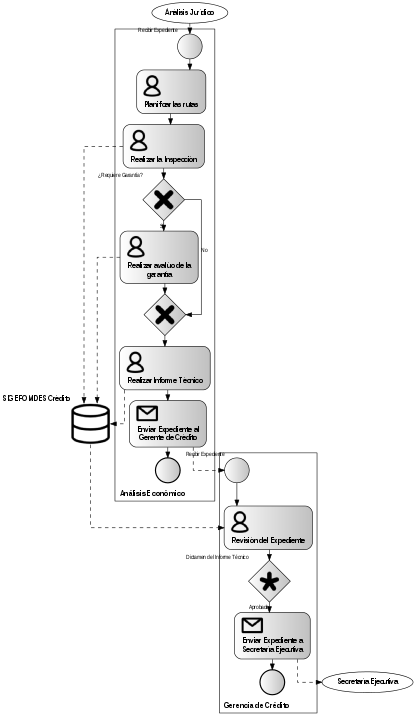
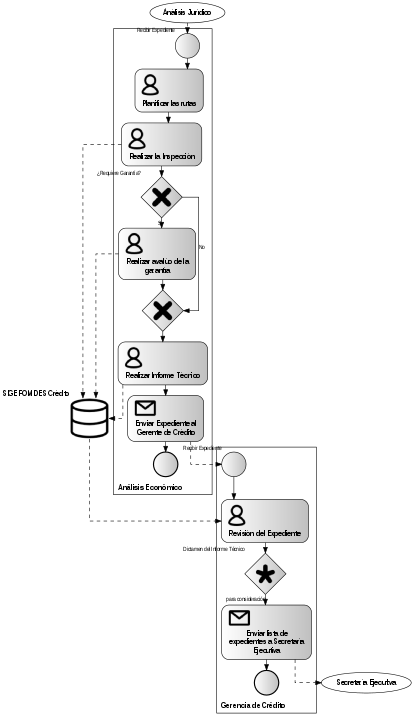
Edición de los procesos 2 y 3

Changed region(s): [[0.0, 0.0, 0.7845, 1.0], [0.8136, 0.9167, 0.9588, 0.9778], [0.2034, 0.7028, 0.2324, 0.7333]]

diff --git a/doc/informe1/fomdes_proc3.py b/doc/informe1/fomdes_proc3.py
@@ -1,0 +1,77 @@
+#!/usr/bin/env python
+#  -*- coding: utf-8 -*-
+
+"""
+BPMN diagram for FOMDES process 1
+"""
+
+from __future__ import absolute_import
+from __future__ import division
+from __future__ import print_function
+from __future__ import unicode_literals
+
+from bpmn_pgv import *
+import pygraphviz as pgv
+
+__author__ = 'mapologo'
+
+PROCESS_LABEL = "Aprobación de Créditos"
+# A graph for FOMDES processes
+F = pgv.AGraph(strict=False, directed=True)
+
+F.graph_attr.update(label="", rankdir="TB", splines="ortho", labelloc="b",
+                    size="8, 7.5", forcelabels="true", ranksep="0.25", fontname="Liberation Sans Narrow Condensed")
+F.node_attr.update(fontname="Liberation Sans Narrow Condensed")
+F.edge_attr.update(fontname="Liberation Sans Narrow Condensed", fontsize="10")
+
+se_cluster = {"se0": ("Recibir Lista de Expedientes", "start"),
+              "se1": ("Verificar Lista de Expedientes", "human"),
+              "se2": ("Solicitar Certificación Presupuestaria y Financiera", "message"),
+              "se3": ("Convocar el Consejo Directivo", "message"),
+              "se4": ("Elaborar el Acta de Créditos Aprobados", "human"),
+              "se5": ("Elaborar el Documento de Credito (Documento de Empresa)", "human"),
+              "se6": ("", "end")}
+
+se_edges = {"se0": {"se1": {}},
+            "se1": {"se2": {}},
+            "se2": {"se3": {"style":"invis"}},
+            "se3": {"se4": {"style":"invis"}},
+            "se4": {"se5": {}},
+            "se5": {"se6": {}}}
+
+SE = add_cluster(F, "se", "Secretaría Ejecutiva", se_cluster, se_edges)
+
+p_cluster = {"p0": ("Verificar Lista de Expedientes", "human")}
+
+p_edges = {}
+
+P = add_cluster(F, "p", "Presidencia", p_cluster, p_edges)
+
+pr_cluster = {"pr0": ("Elaborar Certificación Presupuestaria y Financiera", "human"),
+              "pr1": ("Enviar Certificación a Secretaría Ejecutiva", "message")}
+
+pr_edges = {"pr0": {"pr1": {}}}
+
+PR = add_cluster(F, "pr", "Presupuesto/Administración", pr_cluster, pr_edges)
+
+cd_cluster = {"cd0": ("Revisar los expedientes", "human"),
+              "cd1": ("¿Se aprueba el crédito?", "complex")}
+
+cd_edges = {"cd0": {"cd1": {}}}
+
+CD = add_cluster(F, "cd", "Consejo Directivo", cd_cluster, cd_edges)
+
+# F.add_node("SIGEFOMDES Crédito", image="static/database.png", shape="plaintext", label="", xlabel="SIGEFOMDES Crédito")
+
+global_edges = {"Gerencia de Crédito":  {"se0": {"style": "dashed"}},
+                "p0": {"se1": {"style": "dashed"}},
+                "se2": {"pr0": {"style": "dashed"}},
+                "pr1": {"se3": {"style": "dashed"}},
+                "se3": {"cd0": {"style": "dashed"}},
+                "cd1": {"se4": {"style": "dashed"}},
+                "se5": {"Usuario": {"style": "dashed"}}}
+
+add_edges(F, global_edges)
+
+F.draw("proc3.png", prog='dot')
+F.write("proc3.dot")

diff --git a/doc/informe1/fomdes_proc22.py b/doc/informe1/fomdes_proc22.py
@@ -48,12 +48,12 @@ AE = add_cluster(F, "ae", "Análisis Económico", ae_cluster, ae_edges)
 gc_cluster = {"gc0": ("Recibir Expediente", "start"),
               "gc1": ("Revisión del Expediente", "human"),
               "gc2": ("Dictamen del Informe Técnico", "complex"),
-              "gc3": ("Enviar Expediente a Secretaría Ejecutiva", "message"),
+              "gc3": ("Enviar lista de expedientes a Secretaría Ejecutiva", "message"),
               "gc4": ("", "end")}
 
 gc_edges = {"gc0": {"gc1": {}},
             "gc1": {"gc2": {}},
-            "gc2": {"gc3": {"xlabel": "Aprobado"}},
+            "gc2": {"gc3": {"xlabel": "para consideración"}},
             "gc3": {"gc4": {}}}
 
 GC = add_cluster(F, "gc", "Gerencia de Crédito", gc_cluster, gc_edges)

diff --git a/doc/informe1/fomdes_proc21.py b/doc/informe1/fomdes_proc21.py
@@ -64,7 +64,8 @@ global_edges = {"u6":  {"ic4": {"style": "dashed"}},
                 "ic6": {"aj0": {"style": "dashed"}},
                 "ic5": {"SIGEFOMDES Crédito": {"style": "dashed"}},
                 "aj1": {"SIGEFOMDES Crédito": {"style": "dashed"}},
-                "aj3": {"ic7": {"style": "dashed"}, "Análisis Económico": {"style": "dashed"}}}
+                "aj3": {"ic7": {"style": "dashed"}, "Análisis Económico": {"style": "dashed"}},
+                fill("Estadística y Evaluación de Riesgos", TEXT_WIDTH): {"u4": {"style": "dashed"}}}
 
 add_edges(F, global_edges)
 

diff --git a/doc/informe1/procesos.rst b/doc/informe1/procesos.rst
@@ -84,6 +84,9 @@ créditos.
        * - Expediente
          - Realizar el informe técnico
          - Expediente con informe técnico (con memoria fotográfica)
+       * - Expediente
+         - Elaborar lista de expedientes para consideración del Consejo Directivo
+         - Lista de expedientes
 
     * **Flujograma**: Ver Figuras 3.2 y 3.3
 
@@ -95,77 +98,51 @@ créditos.
 **Aprobación de Créditos**
 ==========================
 
-    * **Descripción**: Abarca desde la recepción del listado de expedientes sugeridos para
+    * **Descripción**: Abarca desde la recepción del lista de expedientes sugeridos para
       aprobación de créditos hasta la elaboración del Documento de Crédito y constitución de la
-      empresa (de requerirse) para cada uno de los beneficiarios/-as.
+      empresa (de requerirse) para cada uno de los beneficiarios(as).
 
     * **Dependencia responsable**: Presidencia
 
-    * **Unidad(es) Ejecutora(s)**: Analistas de Crédito, Presupuesto, Secretaría Ejecutiva, Consejo Directivo, Presupuesto, Secretaría Ejecutiva
+    * **Unidad(es) Ejecutora(s)**: Secretaría Ejecutiva, Presupuesto, Consejo Directivo
 
     * **Tabla de Actividades**:
 
+    .. tabularcolumns:: |p{4cm}|p{7cm}|p{4cm}|
+
     .. list-table::
-       :widths: 40 40 40
+       :widths: 40 70 40
        :header-rows: 1
 
        * - Entrada
          - Actividades
          - Salida
+       * - Lista de expedientes
+         - Revisar lista de expedientes junto con presidencia
+         - Lista de expedientes priorizada
        * - Expediente
-         - Revisión de la propuesta para aprobar/rechazar
-         - Informe sobre perfil de la actividad, inversión y proyección económica
-       * - Expediente
-         - Revisión del expediente
+         - Elaborar certificación presupuestaria por sector
          - Certificación presupuestaria por sector
-       * - Propuesta sugerida para aprobar/rechazar
-         - Convoca al consejo directivo
-         - Lista de propuestas para aprobar/rechazar
-       * - Propuesta para aprobar/rechazar
-         - Revisión de expediente
-         - Acta de propuesta aprobada
-       * - Expediente
-         - Realiza control previo de los requisitos
-         - Certificación de disponibilidad de dinero para liquidación de crédito
-       * - Expediente aprobado
-         - Redacta documentos
-         - Entrega documento de crédito y documento de constitución de empresa al beneficiario
+       * - Lista de expediente para consejo directivo
+         - Convocar al consejo directivo
+         - Acta de créditos aprobados
+       * - Acta de créditos aprobados
+         - Elaborar el documento de crédito y de ser necesario el documento de la empresa
+         - Documento de crédito y documento de constitución de empresa
 
     * **Flujograma**:
 
-    .. graphviz::
-
-       digraph G05 { rankdir=LR; node [shape=box, style=rounded];
-
-        subgraph clusterA { labeljust=l; label="any-section@company.com";
-         AS [label="", shape=circle, width="0.3"];
-         AE [label="", shape=circle, width="0.3", style=bold];
-         A1 [label="A1: Daily\nReport"];
-         A2 [label="A2: Memo"];
-
-         AS -> A1;
-         A2 -> AE;
-         A1 -> A2 [style=invis];
-        }
-
-        subgraph clusterB { labeljust=l; label="section-leader@company.com";
-         B1 [label="B1: Review"];
-        }
-
-       A1 -> B1 [tailport=sw,headport=nw]; // *Specify positions of tail port and head port*
-       B1 -> A1 [arrowtail=odiamond, label="NG"];
-       B1 -> A2 [arrowtail=rcrowlvee];
-       }
+    .. graphviz:: proc3.dot
 
 **Liquidación de Créditos**
 ===========================
 
     * **Descripción**: Abarca desde la consignación de los documentos notariados por parte de los
-      beneficiarios/-as hasta la entrega del cheque respectivo.
+      beneficiarios(as) hasta la entrega del cheque respectivo.
 
     * **Dependencia responsable**: Administración y Finanzas
 
-    * **Unidad(es) Ejecutora(s)**: Secretaria Ejecutiva, Administración, Presidencia, Secretaría Ejecutiva
+    * **Unidad(es) Ejecutora(s)**: Secretaria Ejecutiva,Presupuesto, Administración, Presidencia, Secretaría Ejecutiva
 
     * **Tabla de Actividades**:
 
@@ -177,42 +154,27 @@ créditos.
          - Actividades
          - Salida
        * - Documento protocolizado del cŕedito
-         - Revisión del documento protocolizado
-         - Envia expediente a Administración
+         - Revisar el documento protocolizado
+         - Expediente con Documento de Crédito Protocolizado
        * - Expediente
-         - Ingreso de datos al sistema SIGEFOMDES-Administración-SISAC
-         - Cuentas por cobrar/tabla de amortización/orden de liquidación/cheque firmado
+         - Verificar documentación legal y elaborar certificación de disponibilidad para liquidación del crédito
+         - Expediente en regla
+       * - Expediente
+         - Ingreso de datos y creación de cuentas en el sistema SIGEFOMDES-Administración y SISAC
+         - Expediente con cuentas por cobrar y tabla de amortización
+       * - Expediente
+         - Imprimir y firmar orden de liquidación y cheque
+         - Cheque
        * - Cheque firmado por Administración
          - Firma del cheque
-         - Cheque firmado
-       * - Cheque firmado
-         - Convoca acto público con el Gobernador
-         - Entrega de cheque a beneficiario
+         - Cheque firmado por Presidencia
+       * - Cheque
+         - Entregar cheque a beneficiario
+         - Expediente con copia de orden de liquidación
 
     * **Flujograma**:
 
     .. graphviz::
-
-       digraph G05 { rankdir=LR; node [shape=box, style=rounded];
-
-        subgraph clusterA { labeljust=l; label="any-section@company.com";
-         AS [label="", shape=circle, width="0.3"];
-         AE [label="", shape=circle, width="0.3", style=bold];
-         A1 [label="A1: Daily\nReport"];
-         A2 [label="A2: Memo"];
-         AS -> A1;
-         A2 -> AE;
-         A1 -> A2 [style=invis];
-        }
-
-        subgraph clusterB { labeljust=l; label="section-leader@company.com";
-         B1 [label="B1: Review"];
-        }
-
-       A1 -> B1 [tailport=sw,headport=nw]; // *Specify positions of tail port and head port*
-       B1 -> A1 [arrowtail=odiamond, label="NG"];
-       B1 -> A2 [arrowtail=rcrowlvee];
-       }
 
 **Inspección de Inversiones**
 =============================
@@ -273,7 +235,7 @@ créditos.
 =========
 
     * **Descripción**: Incluye actividades de recepción de pagos y actualización de estados de
-      cuenta de beneficiarios/-as
+      cuenta de beneficiarios(as)
 
     * **Dependencia responsable**: Administración
 
@@ -322,7 +284,7 @@ créditos.
 ========================
 
     * **Descripción**: Comprende actividades relativas al trámite y gestión de recuperación de
-      pagos caídos por parte de beneficiarios/-as.
+      pagos caídos por parte de beneficiarios(as).
 
     * **Dependencia responsable**: Gerencia de Recuperaciones
 

diff --git a/doc/informe1/descripcion.rst b/doc/informe1/descripcion.rst
@@ -29,7 +29,7 @@ insumo para el levantamiento de procesos y tareas qe actualmente desempeña el F
 necesidades que, desde la perspectiva del usuario es necesario incluir.
 
 Pero adicionalmente, se incluyen también requerimientos funcionales del sistema TINJACA que, a buen
-seguro, seran interroantes planteadas durante su desarrollo.
+seguro, seran interrogantes planteadas durante su desarrollo.
 
 FOMDES
 ======
